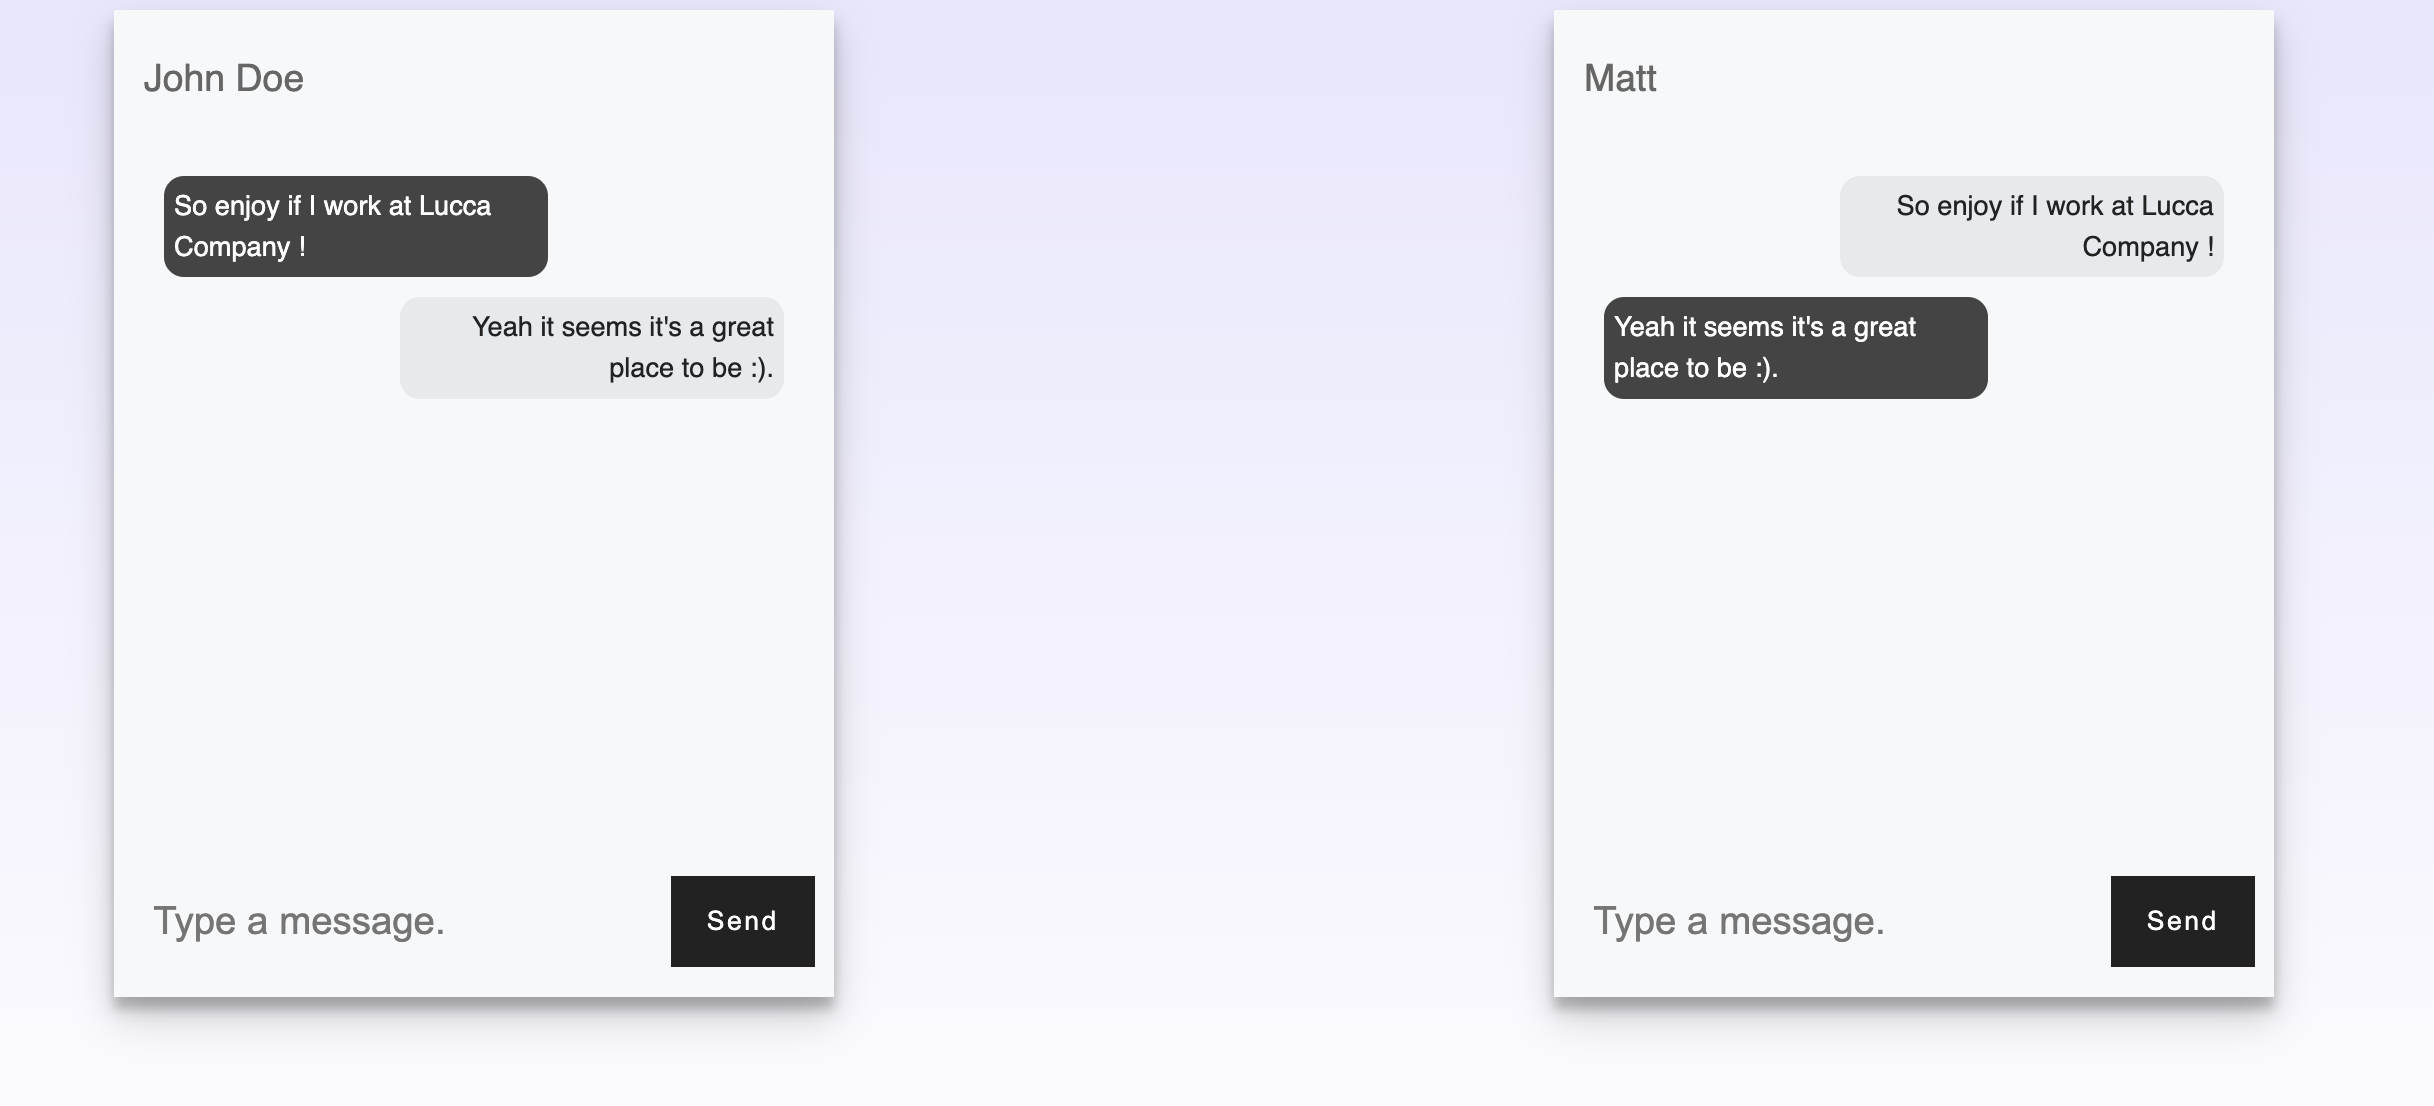
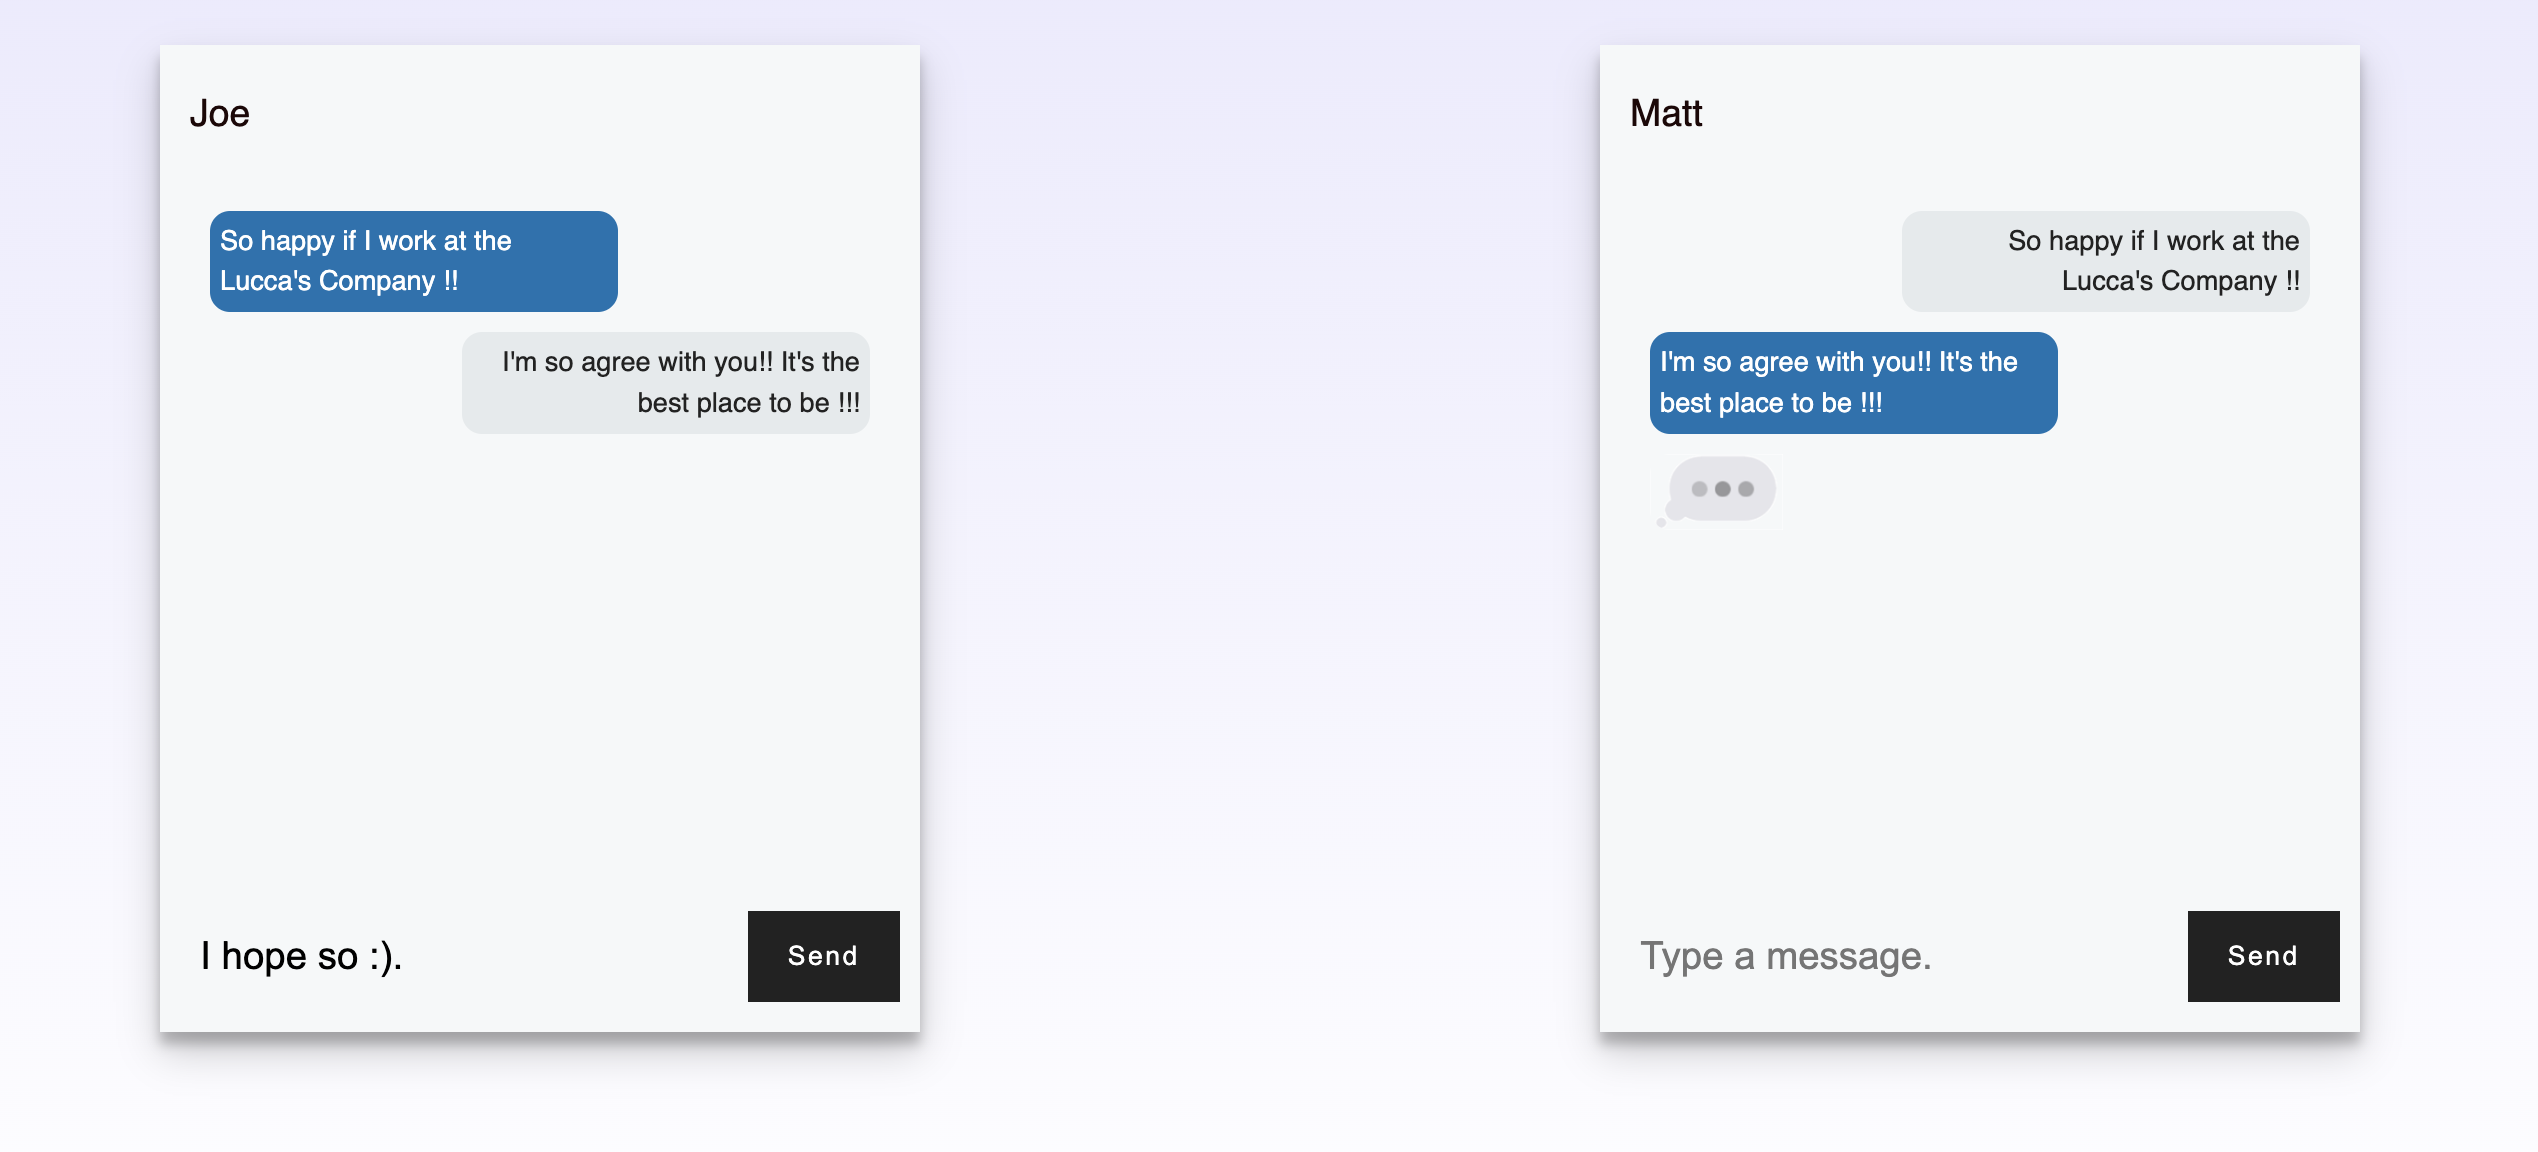
feat(readme): update readme a greeting message

Changed region(s): [[0.0312, 0.0307, 0.3747, 0.9222], [0.6245, 0.0307, 0.9367, 0.9222]]

diff --git a/index.html b/index.html
@@ -30,8 +30,8 @@
 
             <section class="chatbox" id="chatboxId" style="display:flex; flex-direction: row;">
                 <ul class="message" id="chatbox1">
-                       <li class="secondUser" style="visibility: hidden"  ></li>
-                       <li class="firstUser" style="visibility: hidden" ></li>
+                       <li class="secondUser">So happy if I work at the Lucca's Company !!</li>
+                       <li class="firstUser" >I'm so agree with you!! It's the best place to be !!!</li>
                    </ul>
                </section>
 
@@ -50,8 +50,8 @@
 
             <div class="chatbox" id="chatboxId2">
                 <ul class="message" id="chatbox2">
-                     <li class="firstUser" style="visibility: hidden" ></li>
-                     <li class="secondUser" style="visibility: hidden" ></li>
+                     <li class="firstUser"  >So happy if I work at the Lucca's Company !!</li>
+                     <li class="secondUser" >I'm so agree with you!! It's the best place to be !!! </li>
                  </ul>
              </div>
 

diff --git a/README.md b/README.md
@@ -16,9 +16,21 @@ A little chat discussion.
 I use only this three languages to develop this project.
 Indeed, it was developped for a test in Lucca company, and I had to develop a chat discussion without any framework or library, and without server side code.
 
-## To improve 
 
-- Implement functionnalities to add a new user in the chat discussion and be more generic
+**Good to know** : 
+- I continue this project just for fun after. 
+The goal will be to generate IA conversation.
+
+
+## Features
+
+- Send a message from John or From Matt and display each one in the right chat box.
+- Add an animation when a user is writting.
+- Manage the UI Display with an automatic scroll when we receive a message
+
+## To improve
+
+- Implement functionnalities to add a new user in the chat discussion 
 - Add date and hour when a new message is send 
 
 ## Installation
